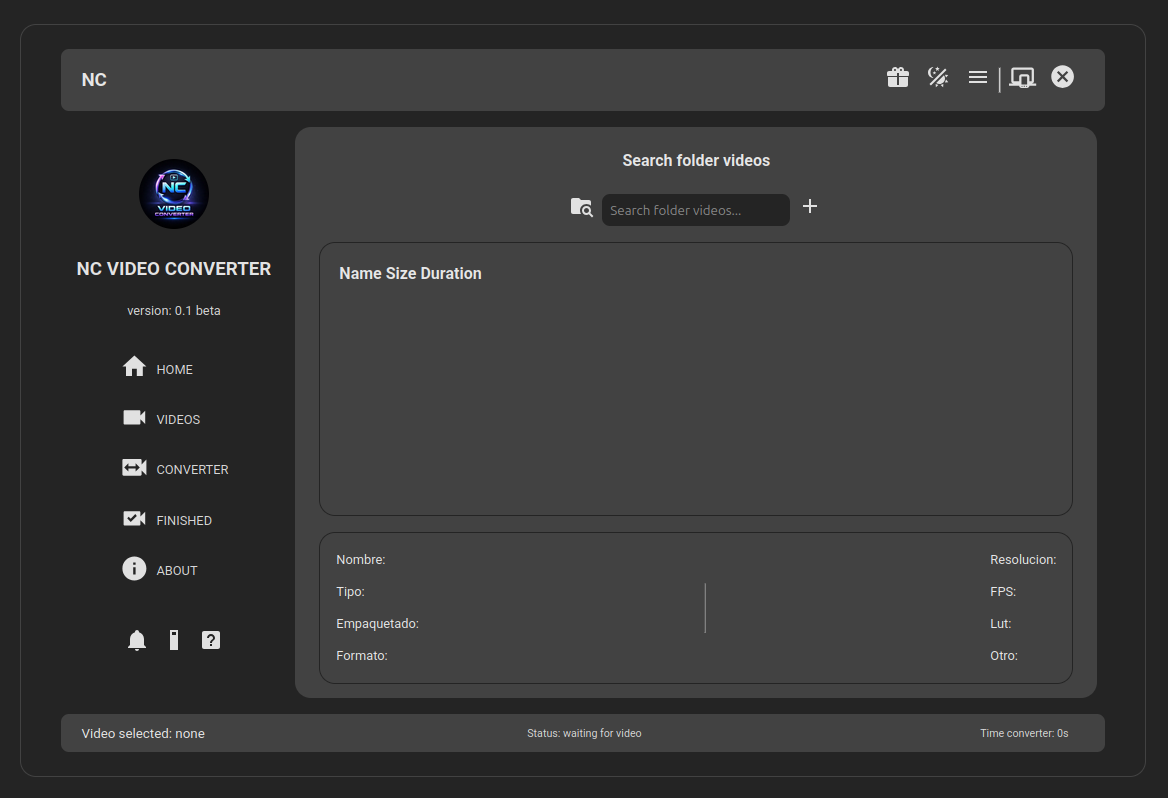
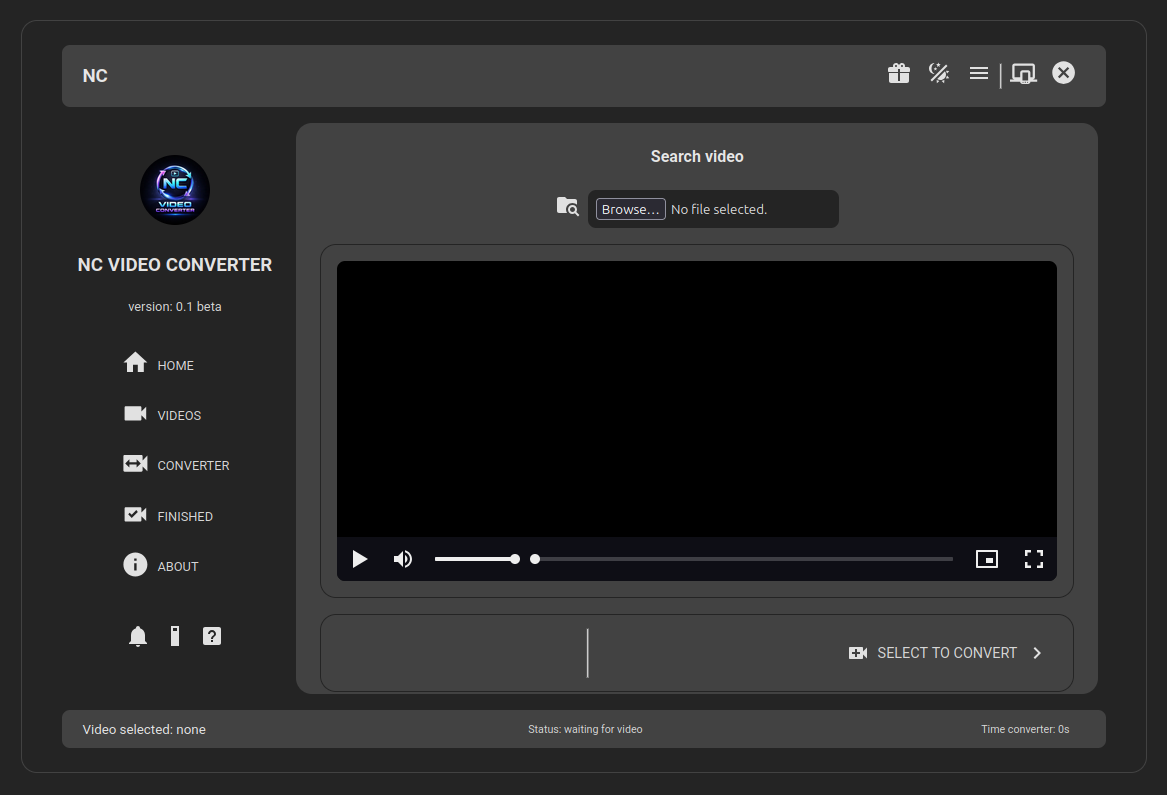
MOD: Web NC Video Converter: Added Video Player Media Chrome. Working styles Section video dekstop

diff --git a/web-nc-video-converter/src/views/page-videos/sections/section-videos--desktop.ts b/web-nc-video-converter/src/views/page-videos/sections/section-videos--desktop.ts
@@ -1,6 +1,7 @@
 
 import { LitElement, css, html } from 'lit'
 import { customElement, state } from 'lit/decorators.js'
+import 'media-chrome';
 
 interface VideoFile {
   file: File;
@@ -10,21 +11,10 @@ interface VideoFile {
 //   mime: string;
 }
 
-interface UploadedFile {
-  url: string;
-  file: File;  
-  filename: string;
-  size: number;
-  mime: string;
-}
-
 @customElement('section-videos-desktop')
 export class SectionVideosDesktop extends LitElement {
 
     @state() videos: VideoFile[] = [];
-    
-    @state() files: UploadedFile[] = [];
-
 
     handleFolderSelect(e: Event) {
         const input = e.target as HTMLInputElement;
@@ -53,29 +43,7 @@ export class SectionVideosDesktop extends LitElement {
         console.log('📦 Backend recibió:', result);
     }
 
-    // async handleFolderSelect(e: Event) {
-    //     const input = e.target as HTMLInputElement;
-    //     if (!input.files) return;
-
-    //     const formData = new FormData();
-
-    //     Array.from(input.files)
-    //     .filter(f => f.type.startsWith('video/'))
-    //     .forEach(file => {
-    //         formData.append('file', file);
-    //         url: URL.createObjectURL(file);
-    //     });
-
-    //     const res = await fetch('http://localhost:3000/upload', {
-    //     method: 'POST',
-    //     body: formData,
-    //     });
-
-    //     const data = await res.json();
-    //     this.files = data;
-    // }
-
-
+    
     render() {
         return html`
             <div class="section">
@@ -101,7 +69,7 @@ export class SectionVideosDesktop extends LitElement {
                 
                     
                 <div class="section__body body">
-                    <table>
+                    <!-- <table>
                         <thead>
                             <tr>
                                 <th>Vista previa</th>
@@ -124,30 +92,25 @@ export class SectionVideosDesktop extends LitElement {
                             `)}
                         </tbody>
                         
-                    </table>
-
-                    <!-- <table>
-                        <thead>
-                        <tr>
-                            <th>Nombre</th>
-                            <th>Tamaño (MB)</th>
-                            <th>Formato</th>
-                        </tr>
-                        </thead>
-
-                        <tbody>
-                        ${this.files.map(file => html`
-                            <tr>
-                            <td>
-                                <video src=${file.url} muted></video>
-                            </td>    
-                            <td>${file.filename}</td>
-                            <td>${(file.size / 1024 / 1024).toFixed(2)}</td>
-                            <td>${file.mime}</td>
-                            </tr>
-                        `)}
-                        </tbody>
                     </table> -->
+
+                    <media-controller>
+                        ${this.videos.map(v => html`
+                            <video
+                                slot="media"
+                                src=${v.url} >
+                            </video>
+                        `)}
+                        <media-control-bar>
+                            <media-play-button></media-play-button>
+                            <media-mute-button></media-mute-button>
+                            <media-volume-range></media-volume-range>
+                            <media-time-range></media-time-range>
+                            <media-pip-button></media-pip-button>
+                            <media-fullscreen-button></media-fullscreen-button>
+                        </media-control-bar>
+                    </media-controller>
+
 
                 </div>
 
@@ -262,8 +225,8 @@ export class SectionVideosDesktop extends LitElement {
                     justify-content: center;
                     align-items: center;
                     text-align: center; 
-                    /* width: 45rem;
-                    height: 15rem; */
+                    width: 45rem;
+                    height: 20rem;
                     padding: 1rem;
 
                     border-style: solid;
@@ -272,7 +235,7 @@ export class SectionVideosDesktop extends LitElement {
                     border-color: #242424;
                 }
 
-                /* Table*/
+                /* TABLE */
                 table {
                     width: 100%;
                     border-collapse: collapse;
@@ -284,6 +247,18 @@ export class SectionVideosDesktop extends LitElement {
                 }
                 video {
                     width: 120px;
+                }
+
+                /* VIDEO PLAYER */
+                media-controller {
+                    width: 100%;
+                    height: 100%;
+                    border-radius: .5rem;
+                }
+
+                video {
+                    width: 100%;
+                    height: 100%;
                 }
 
                 /* FOOTER */
